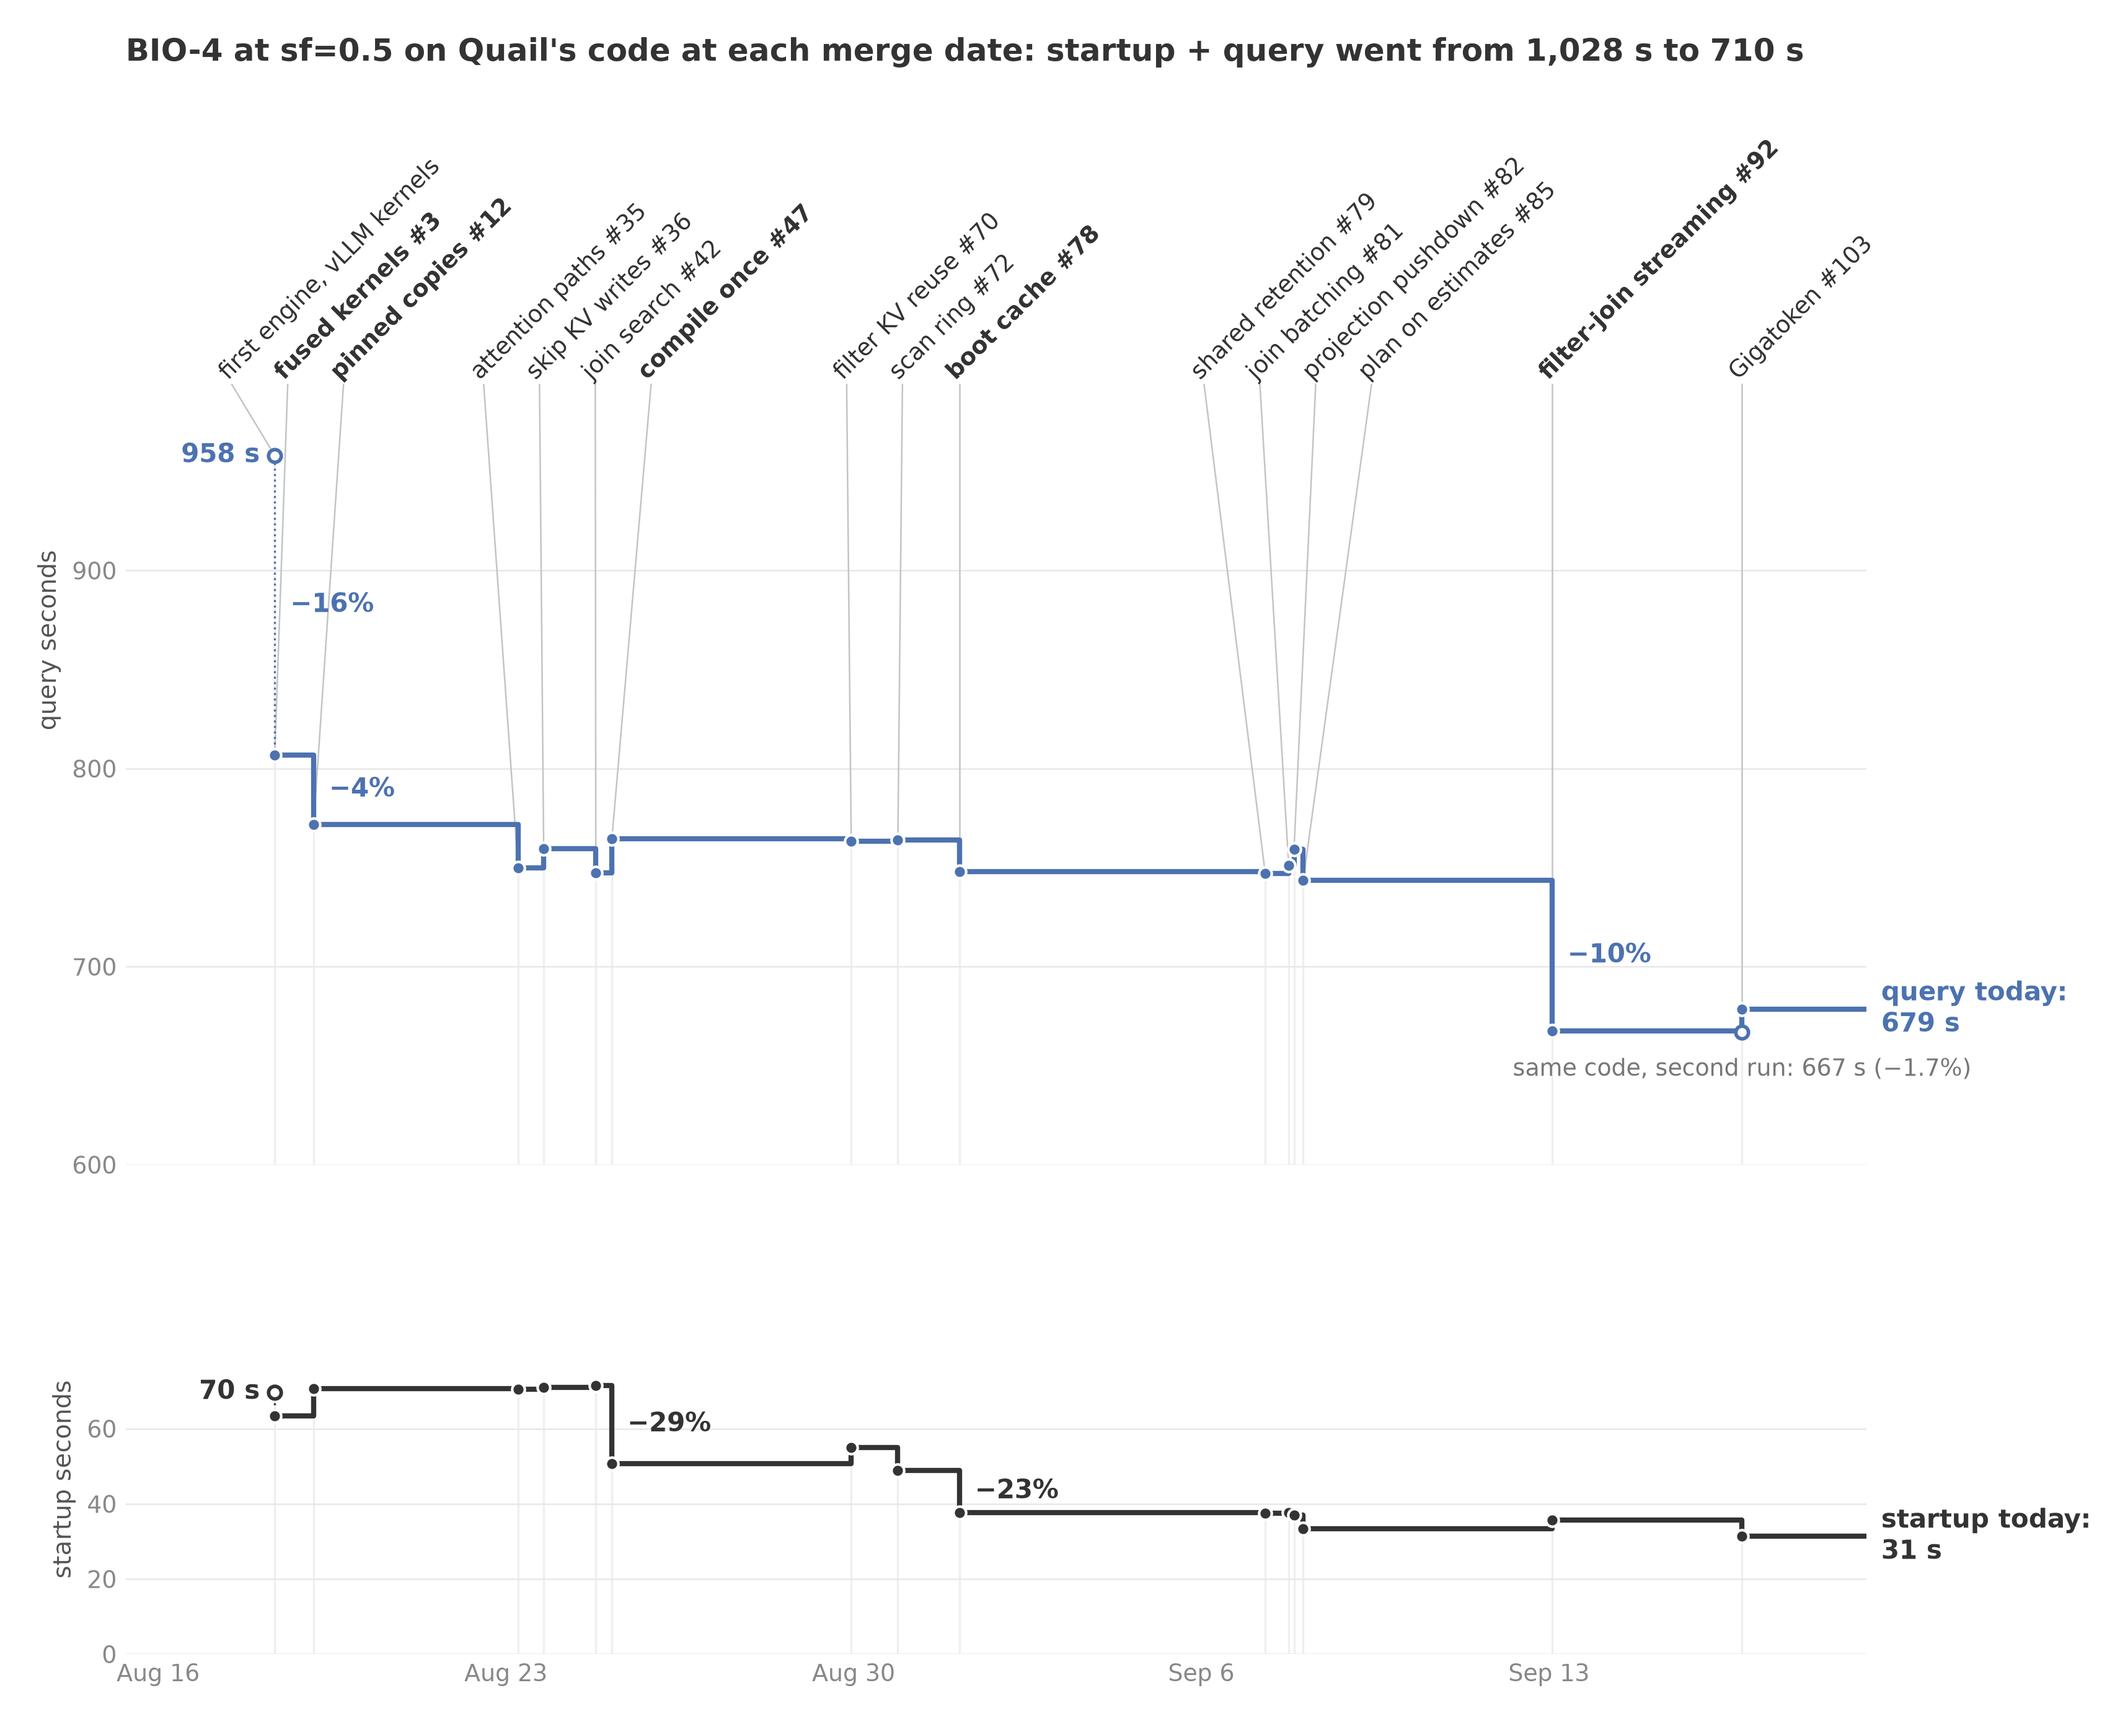
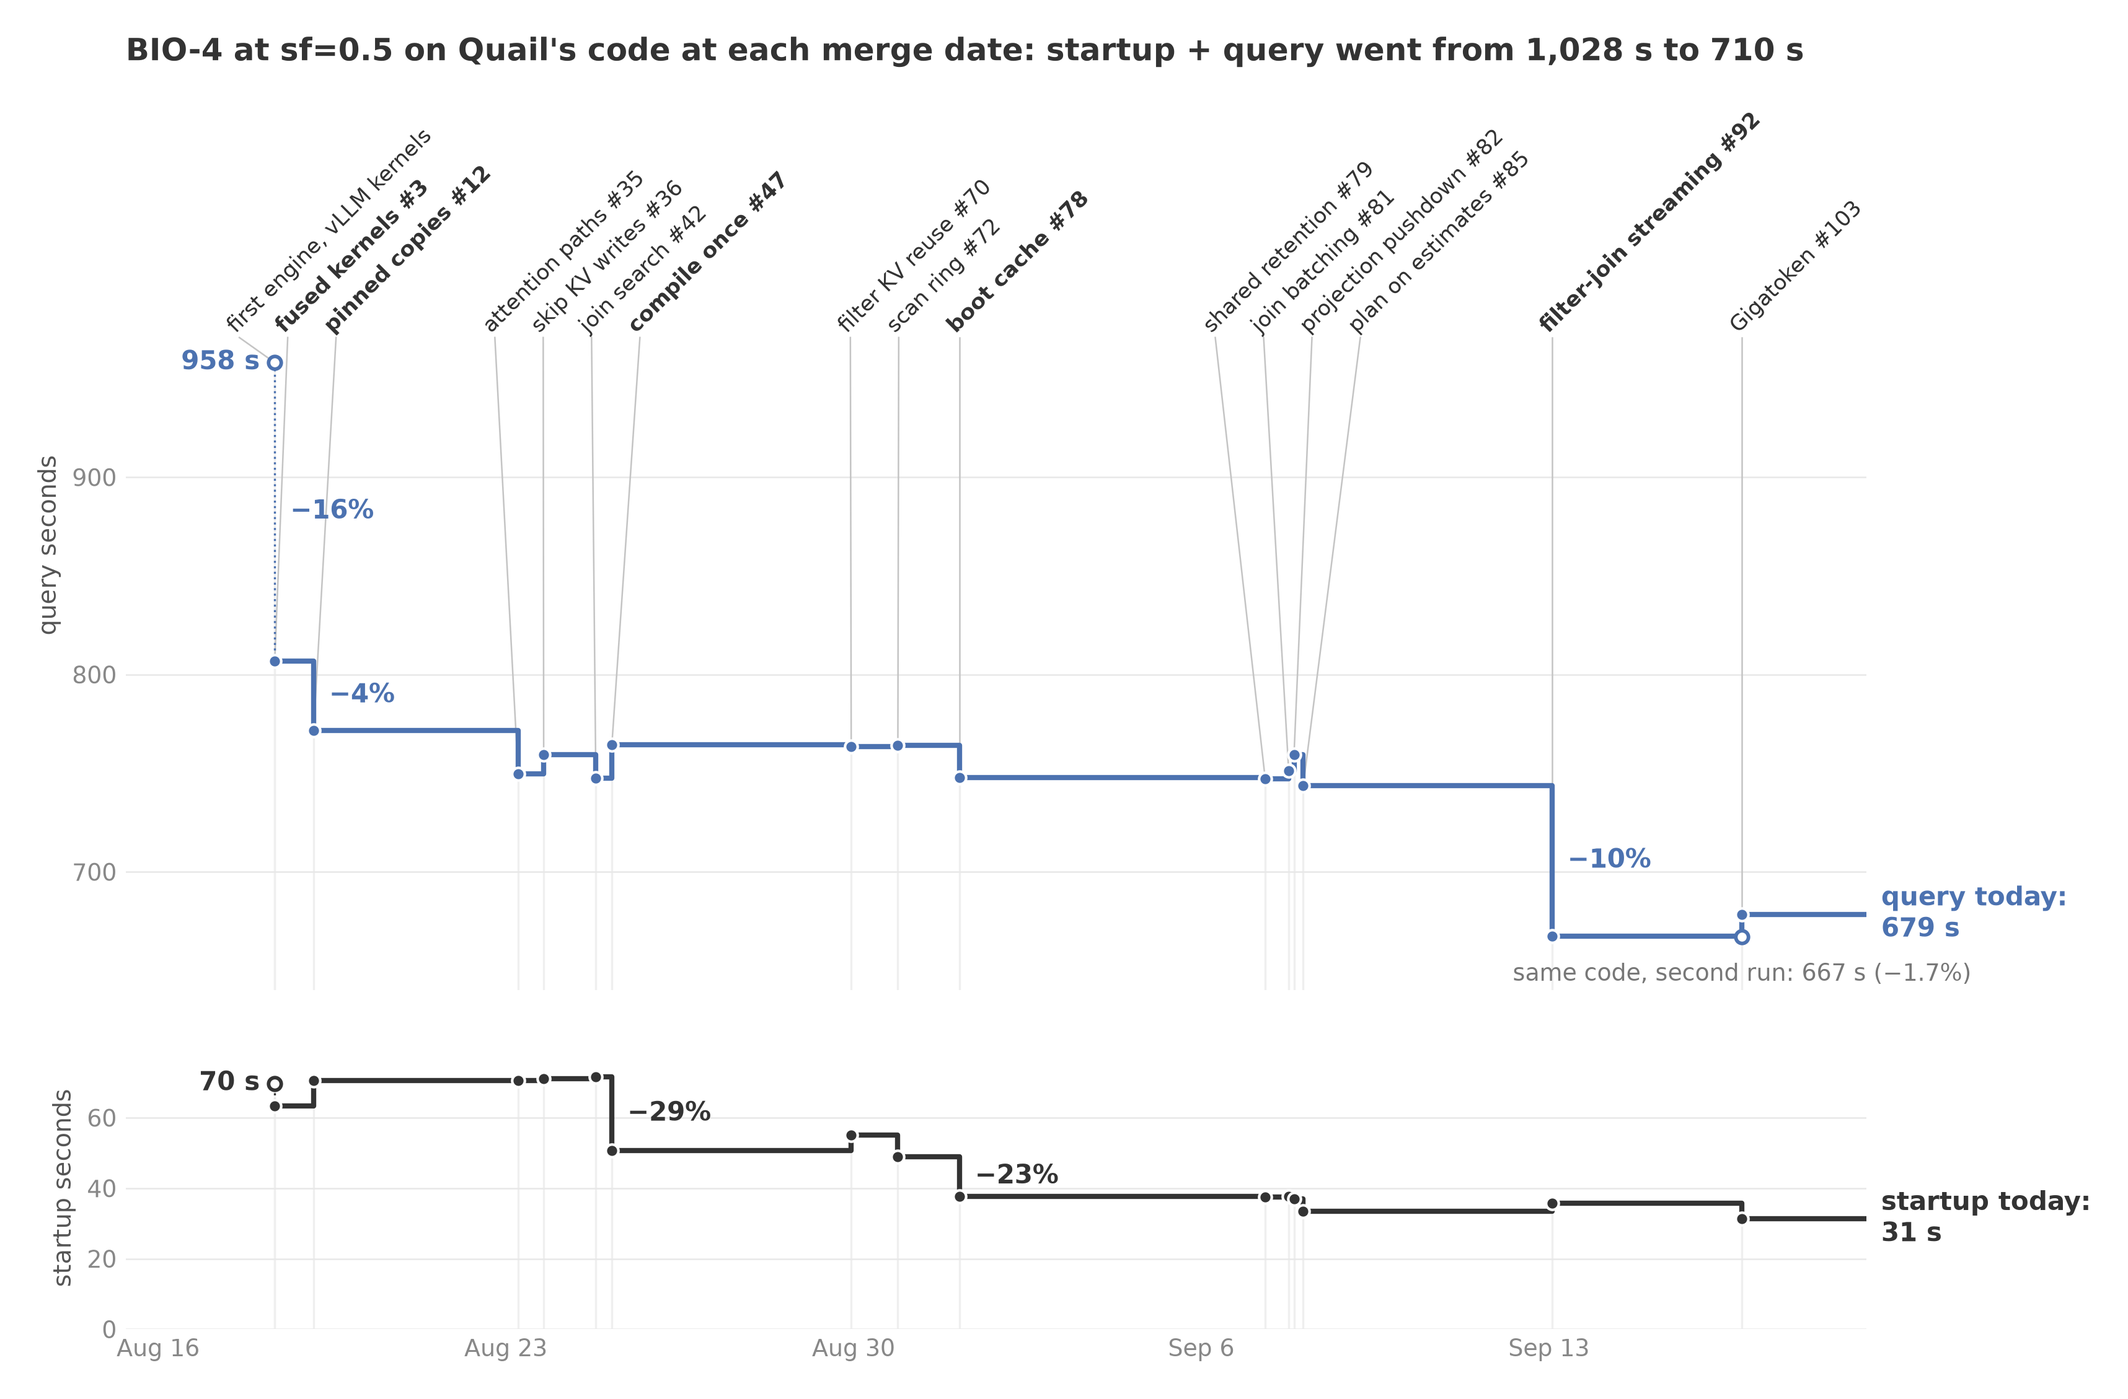
Tighten the BIO-4 Quail figure's axes and label area
Claude-Session: https://claude.ai/code/session_01BQD83hyG8DvqnZ2wwywDKf

diff --git a/reports/make_bio4_history_plots.py b/reports/make_bio4_history_plots.py
@@ -154,7 +154,7 @@ def spread(targets, gap) -> list[float]:
             for k in range(len(members))]
 
 
-def rail_labels(ax, points, texts, rail, weights, gap_in=0.3):
+def rail_labels(ax, points, texts, rail, weights, gap_in=0.26):
     """Labels on a slanted rail above the data, with leaders to points.
 
     Returns the label height in inches, so the caller can leave room.
@@ -168,7 +168,7 @@ def rail_labels(ax, points, texts, rail, weights, gap_in=0.3):
     for (x, y), at, text, weight in zip(points, xs, texts, weights):
         ax.plot([x, at], [y, rail], color=GRAY, lw=0.6, zorder=1)
         label = ax.text(at, rail, text, rotation=45, rotation_mode="anchor",
-                        ha="left", va="bottom", fontsize=9, color=DARK,
+                        ha="left", va="bottom", fontsize=8.5, color=DARK,
                         fontweight=weight, clip_on=False)
         box = label.get_window_extent(renderer)
         tallest = max(tallest, box.height / ax.figure.dpi)
@@ -204,10 +204,10 @@ def quail_plot(summaries, names, out):
     startup = np.array([seconds(r)[1] for r in rows])
     query_steps = steps_over(query, 0.03)
     startup_steps = steps_over(startup, 0.15)
-    fig = plt.figure(figsize=(12, 9.4))
+    fig = plt.figure(figsize=(12, 7.6))
     fig.set_layout_engine("none")
-    top = fig.add_axes((0.07, 0.33, 0.78, 0.6))
-    low = fig.add_axes((0.07, 0.05, 0.78, 0.2))
+    top = fig.add_axes((0.07, 0.3, 0.78, 0.63))
+    low = fig.add_axes((0.07, 0.06, 0.78, 0.2))
     stop = t[-1] + 2.5
     date_axis(low, t[0] - 3, stop)
     top.set_xlim(low.get_xlim())
@@ -217,8 +217,8 @@ def quail_plot(summaries, names, out):
     step_line(top, t, query, stop, BLUE, first_apart=True)
     step_line(low, t, startup, stop, DARK, first_apart=True)
 
-    bottom = 100 * np.floor(query.min() / 100 - 0.5)
-    rail = query.max() + 0.1 * (query.max() - bottom)
+    bottom = 20 * np.floor(query.min() / 20 - 1)
+    rail = query.max() + 0.04 * (query.max() - bottom)
     top.set_ylim(bottom, rail)
     texts, weights = [], []
     for i, row in enumerate(rows):
@@ -228,10 +228,10 @@ def quail_plot(summaries, names, out):
         weights.append("bold" if marked else "normal")
     tallest = rail_labels(top, list(zip(t, query)), texts, rail, weights)
     height_in = top.get_position().height * fig.get_figheight()
-    span = (rail - bottom) * height_in / (height_in - tallest - 0.1)
+    span = (rail - bottom) * height_in / (height_in - tallest - 0.05)
     top.set_ylim(bottom, bottom + span)
-    top.set_yticks(np.arange(bottom, query.max(), 100))
-    low.set_ylim(0, startup.max() * 1.3)
+    top.set_yticks(np.arange(100 * np.ceil(bottom / 100), query.max(), 100))
+    low.set_ylim(0, startup.max() * 1.12)
     low.set_yticks(np.arange(0, startup.max(), 20))
     for ax, values in ((top, query), (low, startup)):
         ax.vlines(t, ax.get_ylim()[0], values, color="#EFEFEF", lw=0.8,
